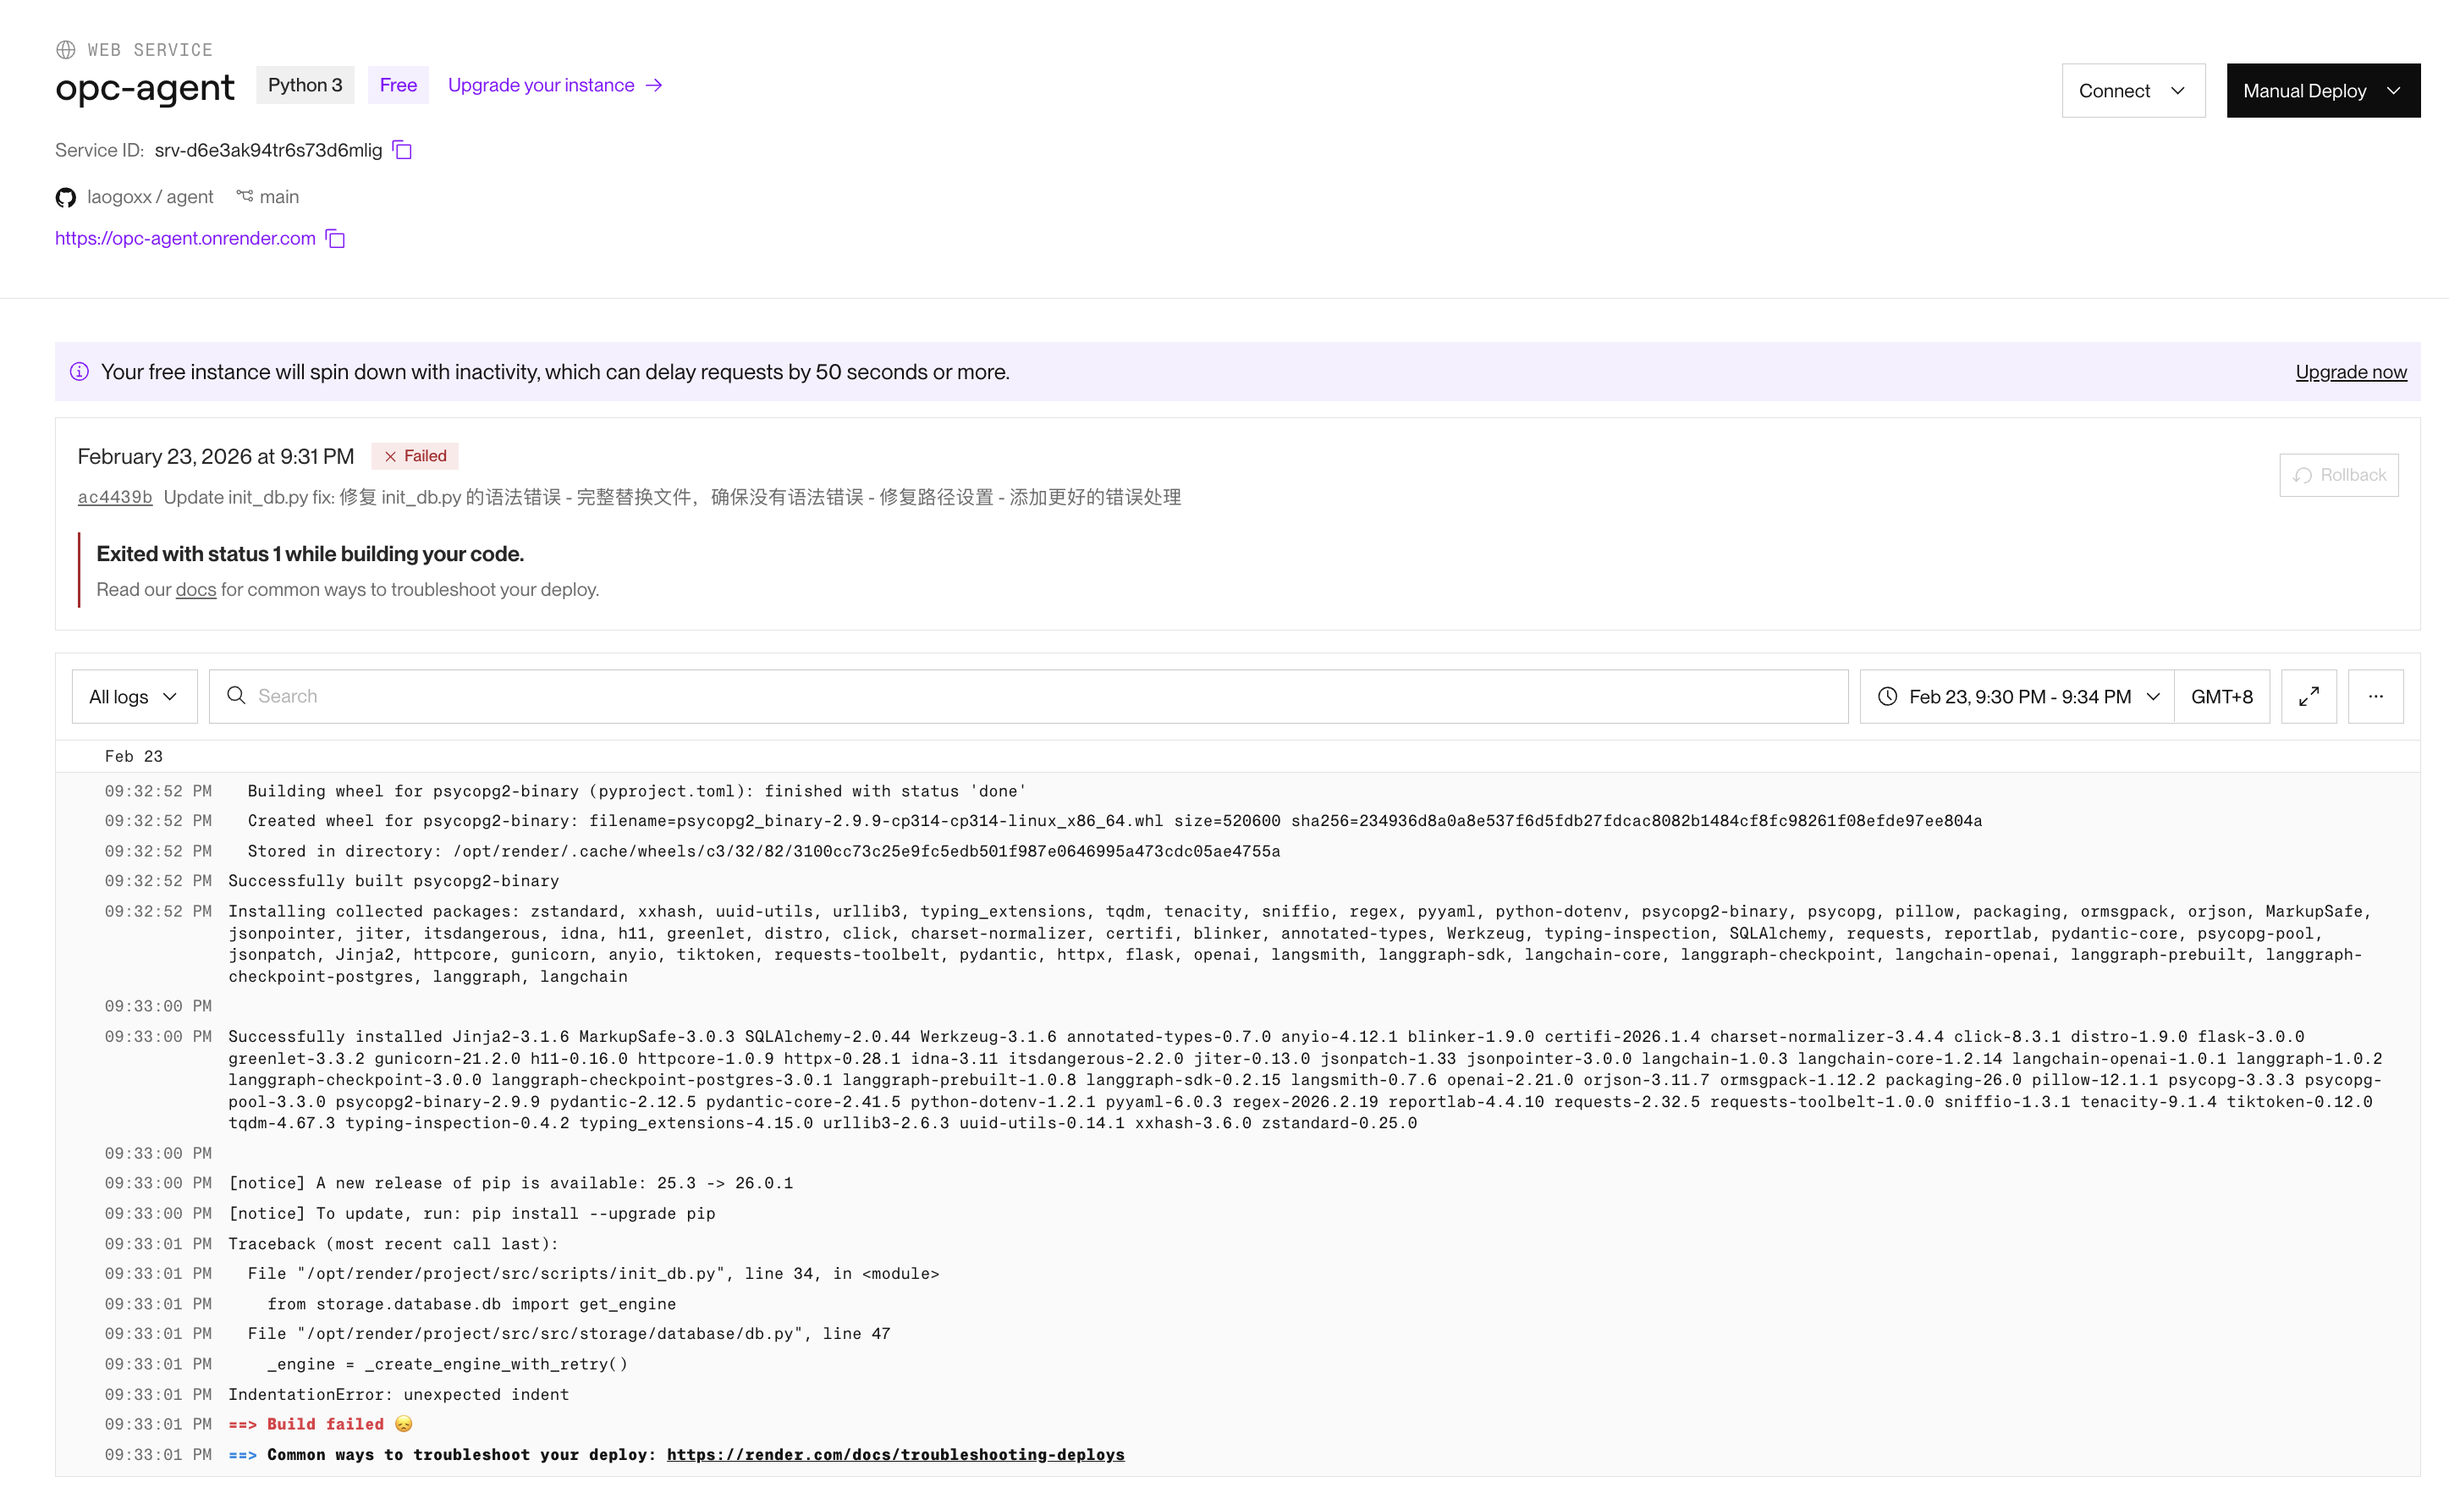
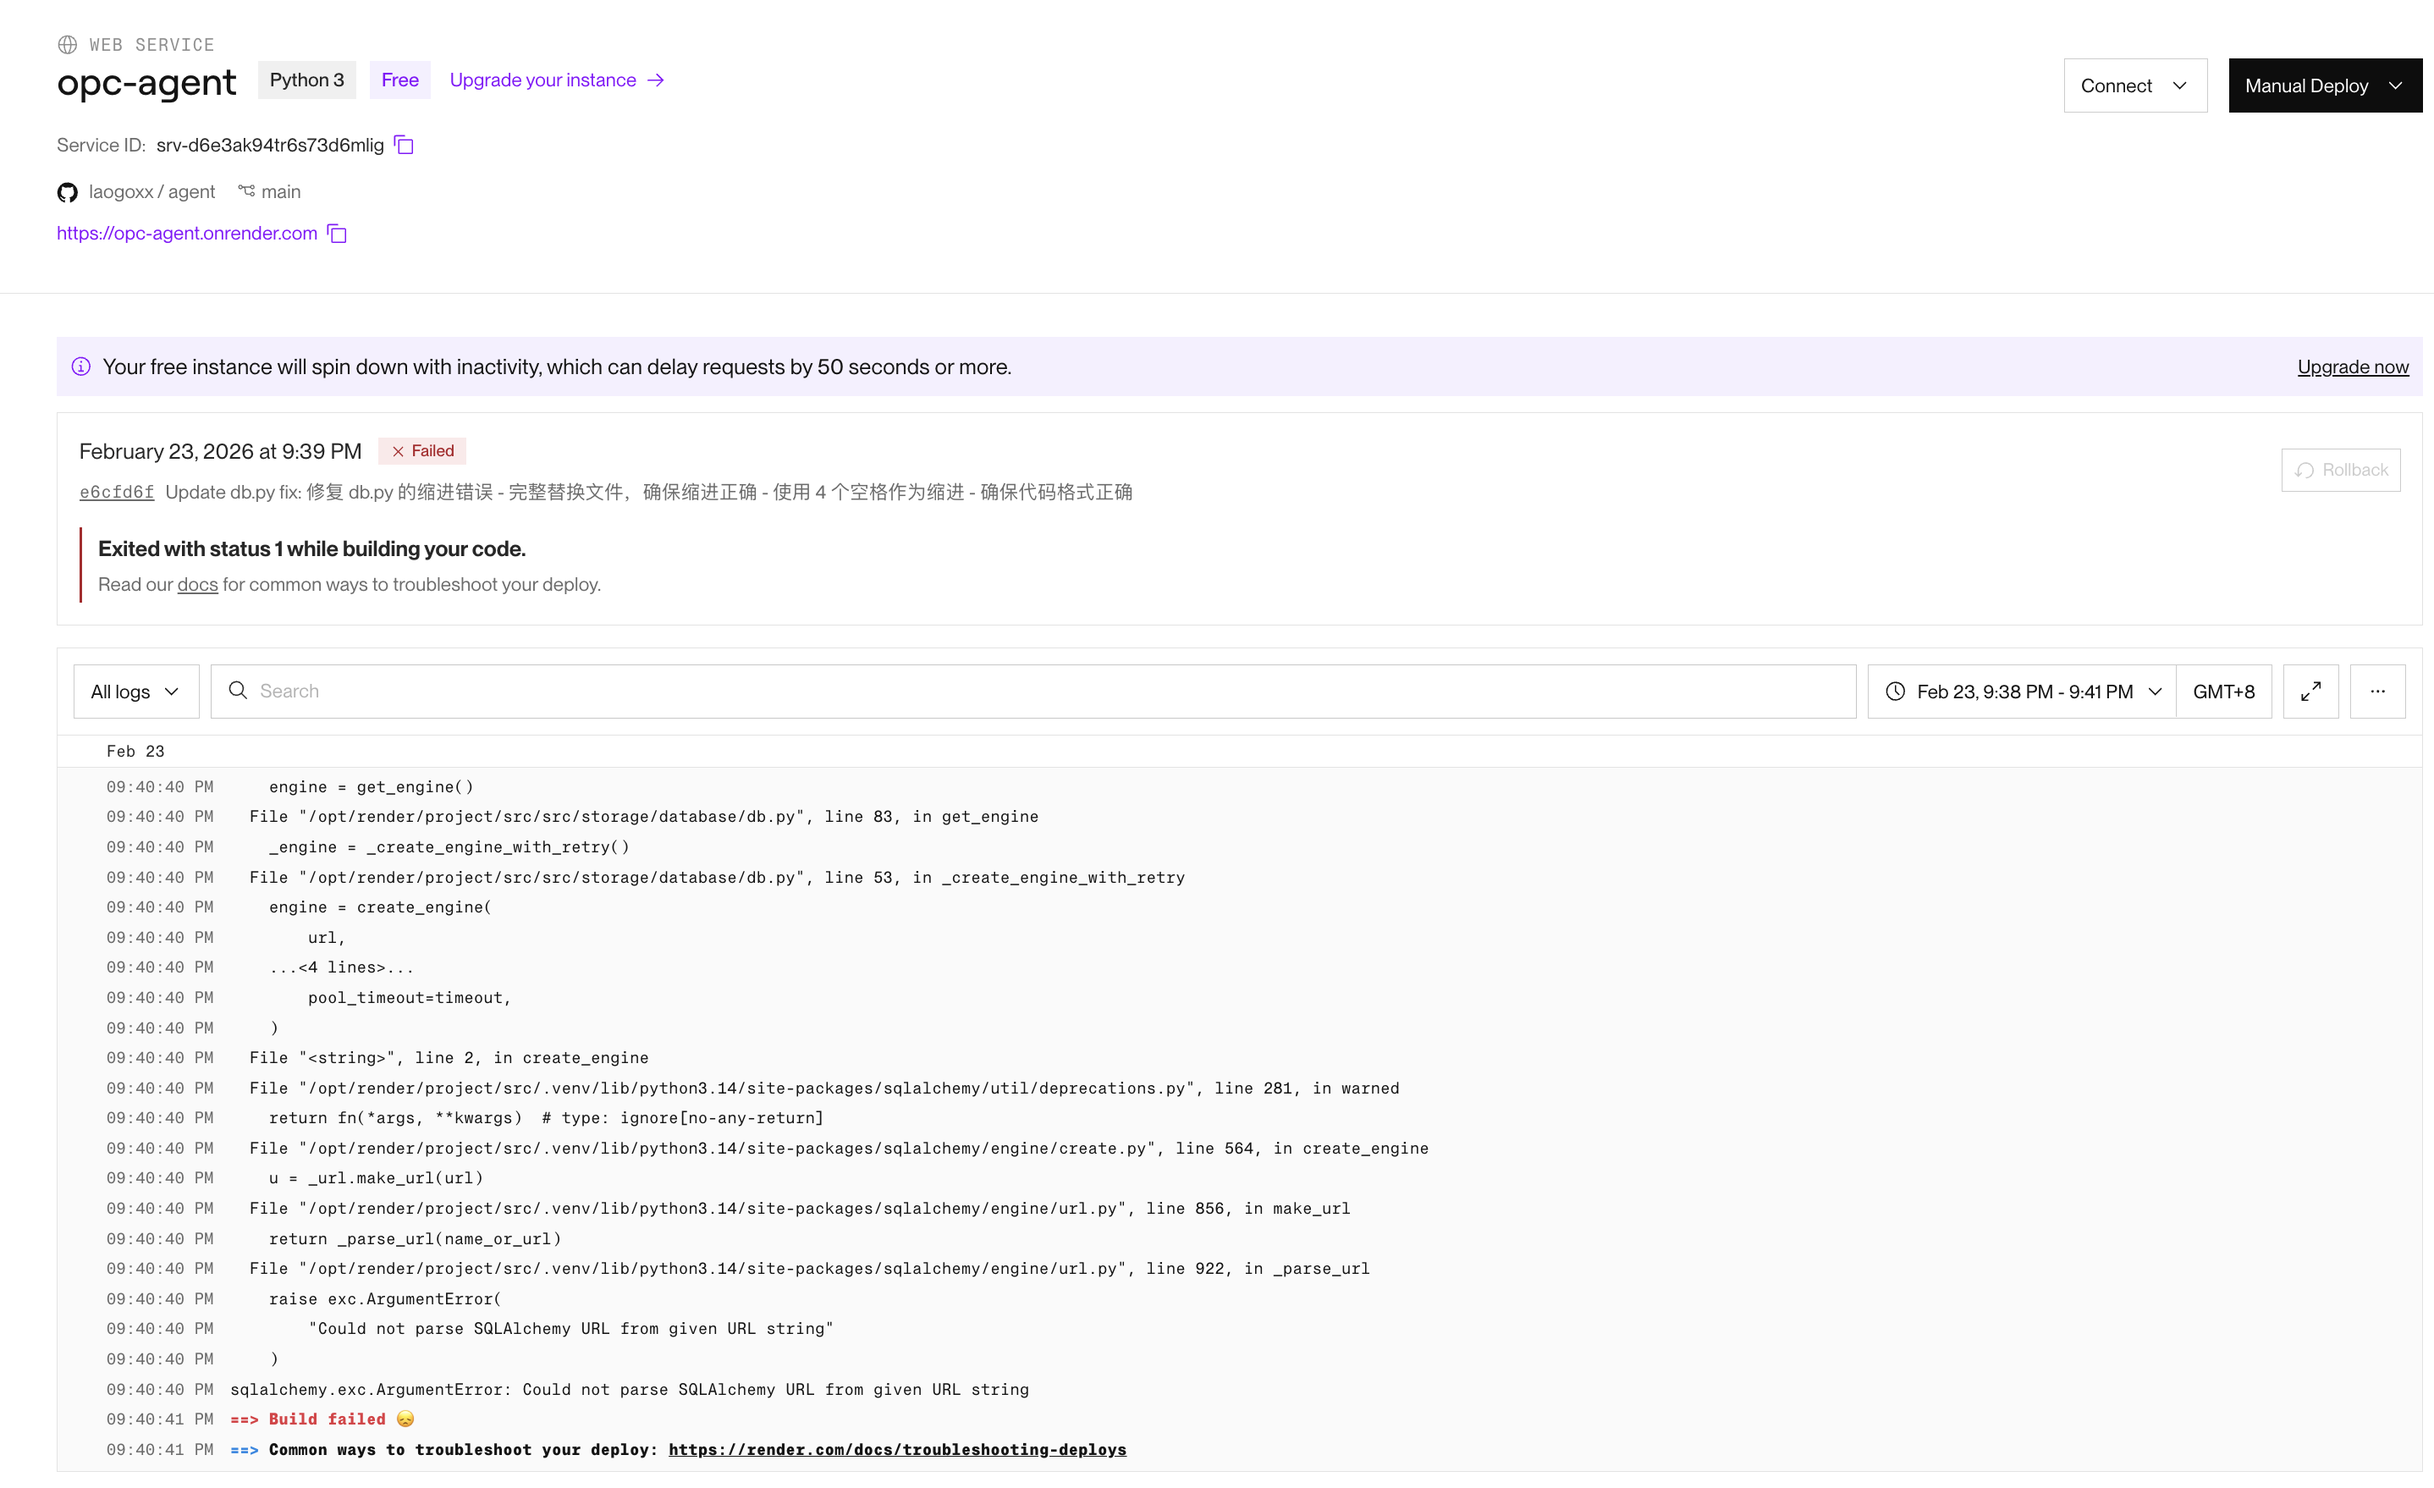
fix: 使用 print() 输出调试信息
- 替换 logger.info() 为 print() 确保能看到输出
- 帮助诊断环境变量问题
- 提供详细的环境变量配置指南
- 说明如何从 Render 控制台获取 DATABASE_URL

diff --git a/src/storage/database/db.py b/src/storage/database/db.py
@@ -19,15 +19,16 @@ def get_db_url() -> str:
     # 优先使用 Render 的 DATABASE_URL 环境变量
     url = os.getenv("DATABASE_URL") or os.getenv("PGDATABASE_URL") or ""
 
-    # 添加调试日志
-    logger.info(f"DATABASE_URL env: {'Set' if os.getenv('DATABASE_URL') else 'Not set'}")
-    logger.info(f"PGDATABASE_URL env: {'Set' if os.getenv('PGDATABASE_URL') else 'Not set'}")
-    logger.info(f"Retrieved URL (first 50 chars): {url[:50] if url else 'Empty'}")
+    # 使用 print() 输出调试信息（确保能看到）
+    print(f"[DEBUG] DATABASE_URL env: {'Set' if os.getenv('DATABASE_URL') else 'Not set'}")
+    print(f"[DEBUG] PGDATABASE_URL env: {'Set' if os.getenv('PGDATABASE_URL') else 'Not set'}")
+    print(f"[DEBUG] Retrieved URL (first 50 chars): {url[:50] if url else 'Empty'}")
 
     if url:
         return url
 
     # 如果没有环境变量，尝试从其他来源获取（可选）
+    print("[ERROR] DATABASE_URL or PGDATABASE_URL is not set")
     logger.error("DATABASE_URL or PGDATABASE_URL is not set")
     raise ValueError("DATABASE_URL or PGDATABASE_URL is not set")
 _engine = None
